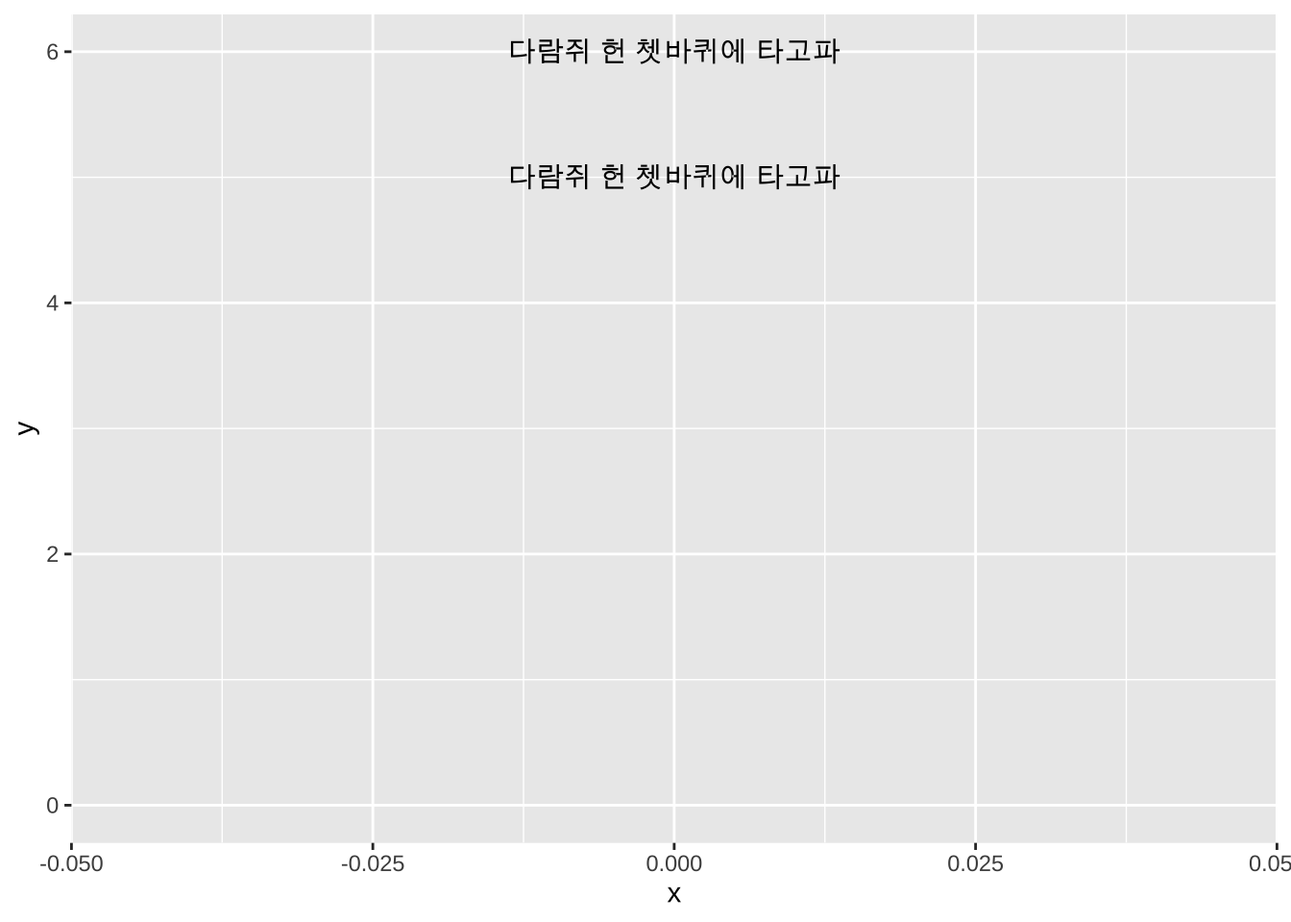
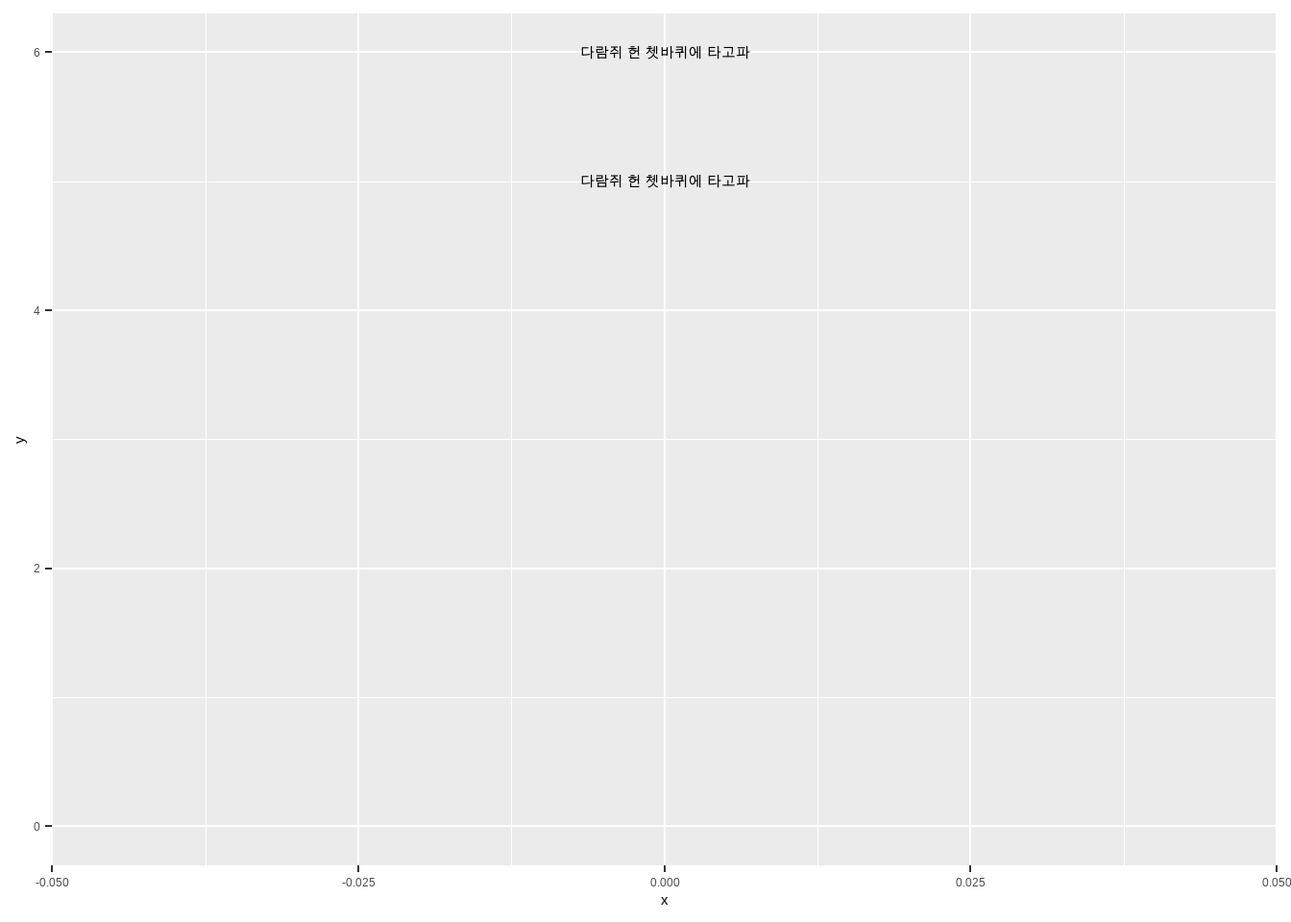
added noto fonts

diff --git a/pdf-noto.html b/pdf-noto.html
@@ -10,7 +10,7 @@
 
 
 
-<meta name="date" content="2021-02-26" />
+<meta name="date" content="2021-02-27" />
 
 <title>PDF를 데이터로 보는 올바른 자세</title>
 
@@ -42,7 +42,6 @@
 pre > code.sourceCode { white-space: pre; position: relative; }
 pre > code.sourceCode > span { display: inline-block; line-height: 1.25; }
 pre > code.sourceCode > span:empty { height: 1.2em; }
-.sourceCode { overflow: visible; }
 code.sourceCode > span { color: inherit; text-decoration: inherit; }
 div.sourceCode { margin: 1em 0; }
 pre.sourceCode { margin: 0; }
@@ -386,91 +385,163 @@ div.tocify {
 <h3 class="subtitle">구글 노토 글꼴(Noto Fonts)</h3>
 <h4 class="author">이광춘</h4>
 <address class="author_afil">
-<a href="https://www.facebook.com/groups/tidyverse/">Tidyverse Korea</a><br><h4 class="date">2021-02-26</h4>
+<a href="https://www.facebook.com/groups/tidyverse/">Tidyverse Korea</a><br><h4 class="date">2021-02-27</h4>
 
 </div>
 
 
-<div id="google-noto-fonts" class="section level1" number="1">
-<h1 number="1"><span class="header-section-number">1</span> 구글 노토 폰트</h1>
+<div id="check-installed-fonts" class="section level1" number="1">
+<h1 number="1"><span class="header-section-number">1</span> 설치된 글꼴 확인</h1>
+<p><code>sysfonts</code> 팩키지를 활용하여 폰트가 설치된 디렉토리와 파일을 확인할 수 있다. <code>font_paths()</code>를 통해 폰트가 설치된 디렉토리 확인이 가능하고, <code>font_files()</code> 함수를 통해 구체적으로 설치된 폰트를 확인한다.</p>
+<div class="sourceCode" id="cb1"><pre class="sourceCode r"><code class="sourceCode r"><span id="cb1-1"><a href="#cb1-1" aria-hidden="true"></a><span class="kw">library</span>(tidyverse)</span>
+<span id="cb1-2"><a href="#cb1-2" aria-hidden="true"></a></span>
+<span id="cb1-3"><a href="#cb1-3" aria-hidden="true"></a>sysfonts<span class="op">::</span><span class="kw">font_paths</span>()</span></code></pre></div>
+<pre><code>[1] &quot;C:\\Windows\\Fonts&quot;</code></pre>
+<div class="sourceCode" id="cb3"><pre class="sourceCode r"><code class="sourceCode r"><span id="cb3-1"><a href="#cb3-1" aria-hidden="true"></a>sysfonts<span class="op">::</span><span class="kw">font_files</span>() <span class="op">%&gt;%</span><span class="st"> </span></span>
+<span id="cb3-2"><a href="#cb3-2" aria-hidden="true"></a><span class="st">  </span><span class="kw">as_tibble</span>() <span class="op">%&gt;%</span><span class="st"> </span></span>
+<span id="cb3-3"><a href="#cb3-3" aria-hidden="true"></a><span class="st">  </span><span class="kw">filter</span>(<span class="kw">str_detect</span>(family, <span class="dt">pattern =</span> <span class="st">&quot;Nanum&quot;</span>)) <span class="op">%&gt;%</span><span class="st"> </span></span>
+<span id="cb3-4"><a href="#cb3-4" aria-hidden="true"></a><span class="st">  </span><span class="kw">select</span>(<span class="op">-</span>version, <span class="op">-</span>ps_name)</span></code></pre></div>
+<pre><code># A tibble: 25 x 4
+   path            file                        family                  face     
+   &lt;chr&gt;           &lt;chr&gt;                       &lt;chr&gt;                   &lt;chr&gt;    
+ 1 C:/Windows/Fon~ NanumBarunGothic.ttf        NanumBarunGothic        Regular  
+ 2 C:/Windows/Fon~ NanumBarunGothicBold.ttf    NanumBarunGothic        Bold     
+ 3 C:/Windows/Fon~ NanumBarunGothicLight.ttf   NanumBarunGothic Light  Light    
+ 4 C:/Windows/Fon~ NanumBarunGothicUltraLight~ NanumBarunGothic Ultra~ UltraLig~
+ 5 C:/Windows/Fon~ NanumBarunpenB.ttf          NanumBarunpen Bold      Bold     
+ 6 C:/Windows/Fon~ NanumBarunpenR.ttf          NanumBarunpen           Regular  
+ 7 C:/Windows/Fon~ NanumBrush.ttf              Nanum Brush Script      Regular  
+ 8 C:/Windows/Fon~ NanumGothic.ttf             NanumGothic             Regular  
+ 9 C:/Windows/Fon~ NanumGothicBold.ttf         NanumGothic             Bold     
+10 C:/Windows/Fon~ NanumGothicCoding-Bold.ttf  NanumGothicCoding       Bold     
+# ... with 15 more rows</code></pre>
+<div id="installed-fonts-helloworld" class="section level2" number="1.1">
+<h2 number="1.1"><span class="header-section-number">1.1</span> 폰트 추가</h2>
+<p><code>showtext</code> 팩키지 <code>font_add()</code> 함수를 통해 서체를 추가하고 <code>font_families()</code> 함수를 통해 확인한다.</p>
+<div class="sourceCode" id="cb5"><pre class="sourceCode r"><code class="sourceCode r"><span id="cb5-1"><a href="#cb5-1" aria-hidden="true"></a><span class="kw">library</span>(showtext)</span>
+<span id="cb5-2"><a href="#cb5-2" aria-hidden="true"></a></span>
+<span id="cb5-3"><a href="#cb5-3" aria-hidden="true"></a><span class="kw">font_add</span>(<span class="dt">family  =</span> <span class="st">&quot;NanumBarunpen&quot;</span>,</span>
+<span id="cb5-4"><a href="#cb5-4" aria-hidden="true"></a>         <span class="dt">bold    =</span> <span class="st">&quot;NanumBarunpenB.ttf&quot;</span>,</span>
+<span id="cb5-5"><a href="#cb5-5" aria-hidden="true"></a>         <span class="dt">regular =</span> <span class="st">&quot;NanumBarunpenR.ttf&quot;</span>)</span>
+<span id="cb5-6"><a href="#cb5-6" aria-hidden="true"></a></span>
+<span id="cb5-7"><a href="#cb5-7" aria-hidden="true"></a><span class="kw">font_families</span>()</span></code></pre></div>
+<pre><code>[1] &quot;sans&quot;          &quot;serif&quot;         &quot;mono&quot;          &quot;wqy-microhei&quot; 
+[5] &quot;NanumBarunpen&quot;</code></pre>
+<div class="sourceCode" id="cb7"><pre class="sourceCode r"><code class="sourceCode r"><span id="cb7-1"><a href="#cb7-1" aria-hidden="true"></a><span class="kw">showtext_auto</span>() </span></code></pre></div>
+<p>R 환경에서 나눔바른펜 폰트를 사용할 준비가 되었기 때문에 다음과 같이 <code>ggplot</code>에서 사용할 준비를 한다. <code>faimly = NanumBarunpen</code>으로 지정하고 <code>fontface =</code>를 달리하여 시각화를 한다.</p>
+<div class="sourceCode" id="cb8"><pre class="sourceCode r"><code class="sourceCode r"><span id="cb8-1"><a href="#cb8-1" aria-hidden="true"></a><span class="co"># library(extrafont) </span></span>
+<span id="cb8-2"><a href="#cb8-2" aria-hidden="true"></a><span class="co"># loadfonts(device = &quot;win&quot;)</span></span>
+<span id="cb8-3"><a href="#cb8-3" aria-hidden="true"></a></span>
+<span id="cb8-4"><a href="#cb8-4" aria-hidden="true"></a>korean_text &lt;-<span class="st"> &quot;다람쥐 헌 쳇바퀴에 타고파&quot;</span></span>
+<span id="cb8-5"><a href="#cb8-5" aria-hidden="true"></a></span>
+<span id="cb8-6"><a href="#cb8-6" aria-hidden="true"></a><span class="kw">ggplot</span>(<span class="dt">data =</span> <span class="ot">NULL</span>) <span class="op">+</span></span>
+<span id="cb8-7"><a href="#cb8-7" aria-hidden="true"></a><span class="st">  </span><span class="kw">geom_text</span>(</span>
+<span id="cb8-8"><a href="#cb8-8" aria-hidden="true"></a>    <span class="kw">aes</span>(<span class="dt">x =</span> <span class="dv">0</span>, <span class="dt">y =</span> <span class="dv">1</span>, <span class="dt">label =</span> korean_text), </span>
+<span id="cb8-9"><a href="#cb8-9" aria-hidden="true"></a>    <span class="dt">family =</span> <span class="st">&quot;NanumBarunpen&quot;</span>, <span class="dt">size =</span> <span class="dv">7</span>) <span class="op">+</span><span class="st"> </span></span>
+<span id="cb8-10"><a href="#cb8-10" aria-hidden="true"></a><span class="st">  </span><span class="kw">geom_text</span>(</span>
+<span id="cb8-11"><a href="#cb8-11" aria-hidden="true"></a>    <span class="kw">aes</span>(<span class="dt">x =</span> <span class="dv">0</span>, <span class="dt">y =</span> <span class="dv">2</span>, <span class="dt">label =</span> korean_text), </span>
+<span id="cb8-12"><a href="#cb8-12" aria-hidden="true"></a>    <span class="dt">family =</span> <span class="st">&quot;NanumBarunpen&quot;</span>, <span class="dt">fontface =</span> <span class="st">&quot;bold&quot;</span>, <span class="dt">size =</span> <span class="dv">9</span>) <span class="op">+</span><span class="st"> </span></span>
+<span id="cb8-13"><a href="#cb8-13" aria-hidden="true"></a><span class="st">  </span><span class="kw">expand_limits</span>(<span class="dt">y =</span> <span class="kw">c</span>(<span class="dv">0</span>, <span class="dv">3</span>)) <span class="op">+</span></span>
+<span id="cb8-14"><a href="#cb8-14" aria-hidden="true"></a><span class="st">  </span><span class="kw">theme_void</span>()</span></code></pre></div>
+<p><img src="pdf-noto_files/figure-html/font-showtext-1.png" width="672" style="display: block; margin: auto;" /></p>
 </div>
-<div id="google-noto-fonts-install" class="section level1" number="2">
-<h1 number="2"><span class="header-section-number">2</span> OS에 폰트 설치 [^install-fonts]</h1>
-<p>[]: <a href="https://www.junian.net/tech/macos-google-fonts/">Junian (Apr 2, 2020), “How to Install All Google Fonts on macOS - A simple guide to install the entire Google Fonts library on macOS,” Junian.net</a></p>
+</div>
+<div id="google-noto-fonts" class="section level1" number="2">
+<h1 number="2"><span class="header-section-number">2</span> 구글 노토 폰트</h1>
+</div>
+<div id="google-noto-fonts-install" class="section level1" number="3">
+<h1 number="3"><span class="header-section-number">3</span> OS에 폰트 설치<a href="#fn1" class="footnote-ref" id="fnref1"><sup>1</sup></a></h1>
 <p>Noto 폰트는 구글이 <code>tofu</code> 문제를 해결하고자 제시한 무료오픈 글꼴이다. 대표적으로 노토 산스와 노토 세리프 한글 글꼴을 제공하고 있어 이를 설치하여 활용하는 방법을 찾아보자.</p>
 <ul>
 <li><a href="https://fonts.google.com/specimen/Noto+Sans+KR">Noto Sans KR</a></li>
 <li><a href="https://fonts.google.com/specimen/Noto+Serif+KR">Noto Serif KR</a></li>
 </ul>
-<div class="sourceCode" id="cb1"><pre class="sourceCode r"><code class="sourceCode r"><span id="cb1-1"><a href="#cb1-1" aria-hidden="true" tabindex="-1"></a><span class="fu">library</span>(tidyverse)</span></code></pre></div>
 <p>먼저 <a href="https://fonts.google.com/">Google Fonts</a> 웹사이트에서 폰트를 다운로드 받아 로컬 컴퓨터 운영체제에 설치한다. GitHub <a href="https://github.com/google/fonts">Google Fonts</a> 저장소를 통채로 콜론하여 사용자 맥 폰트 디렉토리 <code>~/Library/Fonts/</code>에 저장한다. 전체 크기가 1.6 GB 이상되기 때문에 용량을 다소 차지한다. 업데이트된 폰트는 <code>git pull</code> 명령어를 통해 갱신한다.</p>
-<div class="sourceCode" id="cb2"><pre class="sourceCode bash"><code class="sourceCode bash"><span id="cb2-1"><a href="#cb2-1" aria-hidden="true" tabindex="-1"></a><span class="co"># 모든 구글 폰트 설치</span></span>
-<span id="cb2-2"><a href="#cb2-2" aria-hidden="true" tabindex="-1"></a><span class="bu">cd</span> ~/Library/Fonts/</span>
-<span id="cb2-3"><a href="#cb2-3" aria-hidden="true" tabindex="-1"></a><span class="fu">git</span> clone https://github.com/google/fonts.git google-fonts</span>
-<span id="cb2-4"><a href="#cb2-4" aria-hidden="true" tabindex="-1"></a></span>
-<span id="cb2-5"><a href="#cb2-5" aria-hidden="true" tabindex="-1"></a><span class="co"># 구글 폰트 업데이트</span></span>
-<span id="cb2-6"><a href="#cb2-6" aria-hidden="true" tabindex="-1"></a><span class="bu">cd</span> ~/Library/Fonts/google-fonts/</span>
-<span id="cb2-7"><a href="#cb2-7" aria-hidden="true" tabindex="-1"></a><span class="fu">git</span> pull</span>
-<span id="cb2-8"><a href="#cb2-8" aria-hidden="true" tabindex="-1"></a></span>
-<span id="cb2-9"><a href="#cb2-9" aria-hidden="true" tabindex="-1"></a><span class="co"># 삭제</span></span>
-<span id="cb2-10"><a href="#cb2-10" aria-hidden="true" tabindex="-1"></a><span class="fu">rm</span> <span class="at">-rf</span> ~/Library/Fonts/google-fonts/</span></code></pre></div>
-<p>맥에서 “Font Book 앱,” “서체 관리자 앱”을 실행시켜 노토 폰트가 설치된 것을 확인한다.</p>
+<div class="sourceCode" id="cb9"><pre class="sourceCode bash"><code class="sourceCode bash"><span id="cb9-1"><a href="#cb9-1" aria-hidden="true"></a><span class="co"># 모든 구글 폰트 설치</span></span>
+<span id="cb9-2"><a href="#cb9-2" aria-hidden="true"></a><span class="bu">cd</span> ~/Library/Fonts/</span>
+<span id="cb9-3"><a href="#cb9-3" aria-hidden="true"></a><span class="fu">git</span> clone https://github.com/google/fonts.git google-fonts</span>
+<span id="cb9-4"><a href="#cb9-4" aria-hidden="true"></a></span>
+<span id="cb9-5"><a href="#cb9-5" aria-hidden="true"></a><span class="co"># 구글 폰트 업데이트</span></span>
+<span id="cb9-6"><a href="#cb9-6" aria-hidden="true"></a><span class="bu">cd</span> ~/Library/Fonts/google-fonts/</span>
+<span id="cb9-7"><a href="#cb9-7" aria-hidden="true"></a><span class="fu">git</span> pull</span>
+<span id="cb9-8"><a href="#cb9-8" aria-hidden="true"></a></span>
+<span id="cb9-9"><a href="#cb9-9" aria-hidden="true"></a><span class="co"># 삭제</span></span>
+<span id="cb9-10"><a href="#cb9-10" aria-hidden="true"></a><span class="fu">rm</span> -rf ~/Library/Fonts/google-fonts/</span></code></pre></div>
+<p>맥에서 “Font Book 앱”, “서체 관리자 앱”을 실행시켜 노토 폰트가 설치된 것을 확인한다.</p>
 <p><img src="fig/mac-font-book.png" /></p>
+<div id="windows-noto-fonts" class="section level2" number="3.1">
+<h2 number="3.1"><span class="header-section-number">3.1</span> 윈도우</h2>
+<p>윈도우에 노토 폰트를 설치하는 방법은 다운로드 받은 파일을 복사하여 <code>c:\Windows\Fonts</code> 디렉토리에 관리자 권한으로 복사해 넣는 것이다.</p>
 </div>
-<div id="install-fonts" class="section level1" number="3">
-<h1 number="3"><span class="header-section-number">3</span> R에 폰트 설치<a href="#fn1" class="footnote-ref" id="fnref1"><sup>1</sup></a></h1>
+</div>
+<div id="install-fonts" class="section level1" number="4">
+<h1 number="4"><span class="header-section-number">4</span> R에 폰트 설치<a href="#fn2" class="footnote-ref" id="fnref2"><sup>2</sup></a></h1>
 <p>R에서 운영체제에 설치된 폰트를 설치하는 방법은 다음 세가지 팩키지가 있다.</p>
 <ul>
 <li><code>extrafont</code>: Winston Cheng이 개발했으며 TTF(.ttf) 포맷을 지원하는데 중점을 둠.</li>
 <li><code>showtext</code>: TTF 외에도 OTF 등 다양한 폰트 포맷을 지원을 확대함.</li>
-<li><code>systemfonts</code></li>
+<li><code>systemfonts</code>: <code>tidyglyphs</code> 생태계 구축 중<a href="#fn3" class="footnote-ref" id="fnref3"><sup>3</sup></a></li>
 </ul>
-<div id="install-extrafonts" class="section level2" number="3.1">
-<h2 number="3.1"><span class="header-section-number">3.1</span> <code>extrafont</code> 팩키지</h2>
-<p><code>extrafont</code> 폰트 팩키지 <code>font_import()</code> 함수를 사용해서 운영체제에 있는 글꼴을 R에서 사용할 수 있도록 설치할 수 있다.</p>
-<div class="sourceCode" id="cb3"><pre class="sourceCode r"><code class="sourceCode r"><span id="cb3-1"><a href="#cb3-1" aria-hidden="true" tabindex="-1"></a><span class="fu">library</span>(extrafont)</span>
-<span id="cb3-2"><a href="#cb3-2" aria-hidden="true" tabindex="-1"></a><span class="co"># font_import(pattern=&quot;Noto Sans CJK KR Regular&quot;, prompt = FALSE)</span></span>
-<span id="cb3-3"><a href="#cb3-3" aria-hidden="true" tabindex="-1"></a><span class="co"># font_import(paths = &quot;~/Library/Fonts/NotoSansCJKkr-Regular.otf&quot;, prompt = FALSE)</span></span>
-<span id="cb3-4"><a href="#cb3-4" aria-hidden="true" tabindex="-1"></a><span class="co"># font_import(path = &quot;~/Library/Fonts&quot;, pattern = &quot;.otf&quot;, prompt = FALSE)</span></span></code></pre></div>
+<div id="install-extrafonts" class="section level2" number="4.1">
+<h2 number="4.1"><span class="header-section-number">4.1</span> <code>extrafont</code> 팩키지</h2>
+<p><code>extrafont</code> 폰트 팩키지 <code>font_import()</code> 함수를 사용해서 운영체제에 있는 글꼴을 R에서 사용할 수 있도록 설치할 수 있다. <code>extrafont</code> 팩키지는 Winston Cheng에 의해 개발되어 <code>TTF</code>를 지원하기 위해 사용된 것이라 <code>.otf</code>를 받지 않는다. 따라서 <code>.otf</code> → <code>.ttf</code>로 변환시킨 후에 <code>font_import()</code> 함수로 설치해야 된다.</p>
+<div class="sourceCode" id="cb10"><pre class="sourceCode r"><code class="sourceCode r"><span id="cb10-1"><a href="#cb10-1" aria-hidden="true"></a><span class="kw">library</span>(extrafont)</span>
+<span id="cb10-2"><a href="#cb10-2" aria-hidden="true"></a><span class="co"># font_import(pattern=&quot;Noto Sans CJK KR Regular&quot;, prompt = FALSE)</span></span>
+<span id="cb10-3"><a href="#cb10-3" aria-hidden="true"></a><span class="co"># font_import(paths = &quot;~/Library/Fonts/NotoSansCJKkr-Regular.otf&quot;, prompt = FALSE)</span></span>
+<span id="cb10-4"><a href="#cb10-4" aria-hidden="true"></a><span class="co"># font_import(path = &quot;~/Library/Fonts&quot;, pattern = &quot;.otf&quot;, prompt = FALSE)</span></span>
+<span id="cb10-5"><a href="#cb10-5" aria-hidden="true"></a></span>
+<span id="cb10-6"><a href="#cb10-6" aria-hidden="true"></a><span class="co"># font_import(paths = &quot;Noto Sans CJK KR&quot;, prompt = FALSE)</span></span>
+<span id="cb10-7"><a href="#cb10-7" aria-hidden="true"></a><span class="co"># font_import(paths = &quot;Noto Sans Mono CJK KR&quot;, prompt = FALSE)</span></span></code></pre></div>
 </div>
-<div id="showtext-install" class="section level2" number="3.2">
-<h2 number="3.2"><span class="header-section-number">3.2</span> <code>showtext</code></h2>
-<div class="sourceCode" id="cb4"><pre class="sourceCode r"><code class="sourceCode r"><span id="cb4-1"><a href="#cb4-1" aria-hidden="true" tabindex="-1"></a><span class="fu">library</span>(tidyverse)</span>
-<span id="cb4-2"><a href="#cb4-2" aria-hidden="true" tabindex="-1"></a><span class="fu">library</span>(showtext)</span>
-<span id="cb4-3"><a href="#cb4-3" aria-hidden="true" tabindex="-1"></a></span>
-<span id="cb4-4"><a href="#cb4-4" aria-hidden="true" tabindex="-1"></a><span class="co"># font_add_google(&quot;Noto Sans KR&quot;, family = &quot;Noto Sans CJK KR&quot;)</span></span>
-<span id="cb4-5"><a href="#cb4-5" aria-hidden="true" tabindex="-1"></a>sysfonts<span class="sc">::</span><span class="fu">font_add</span>(<span class="at">family =</span> <span class="st">&quot;Noto Sans CJK&quot;</span>, </span>
-<span id="cb4-6"><a href="#cb4-6" aria-hidden="true" tabindex="-1"></a>         <span class="at">regular =</span> <span class="st">&quot;NotoSansCJKkr-Regular.otf&quot;</span>)</span>
-<span id="cb4-7"><a href="#cb4-7" aria-hidden="true" tabindex="-1"></a><span class="fu">showtext_auto</span>(<span class="at">enable =</span> <span class="cn">TRUE</span>)</span>
-<span id="cb4-8"><a href="#cb4-8" aria-hidden="true" tabindex="-1"></a></span>
-<span id="cb4-9"><a href="#cb4-9" aria-hidden="true" tabindex="-1"></a>tmp_str <span class="ot">&lt;-</span> sysfonts<span class="sc">::</span><span class="fu">font_paths</span>()</span>
-<span id="cb4-10"><a href="#cb4-10" aria-hidden="true" tabindex="-1"></a></span>
-<span id="cb4-11"><a href="#cb4-11" aria-hidden="true" tabindex="-1"></a>tmp_str[<span class="fu">str_detect</span>(tmp_str, <span class="at">pattern =</span> <span class="st">&quot;nanum&quot;</span>)]</span></code></pre></div>
-<pre><code>[1] &quot;/Users/kwangchunlee/Library/Fonts/google-fonts/ofl/nanumbrushscript&quot; 
-[2] &quot;/Users/kwangchunlee/Library/Fonts/google-fonts/ofl/nanumgothic&quot;      
-[3] &quot;/Users/kwangchunlee/Library/Fonts/google-fonts/ofl/nanumgothiccoding&quot;
-[4] &quot;/Users/kwangchunlee/Library/Fonts/google-fonts/ofl/nanummyeongjo&quot;    
-[5] &quot;/Users/kwangchunlee/Library/Fonts/google-fonts/ofl/nanumpenscript&quot;   </code></pre>
-<div class="sourceCode" id="cb6"><pre class="sourceCode r"><code class="sourceCode r"><span id="cb6-1"><a href="#cb6-1" aria-hidden="true" tabindex="-1"></a>korean_text <span class="ot">&lt;-</span> <span class="st">&quot;다람쥐 헌 쳇바퀴에 타고파&quot;</span></span>
-<span id="cb6-2"><a href="#cb6-2" aria-hidden="true" tabindex="-1"></a></span>
-<span id="cb6-3"><a href="#cb6-3" aria-hidden="true" tabindex="-1"></a><span class="fu">showtext_begin</span>()</span>
-<span id="cb6-4"><a href="#cb6-4" aria-hidden="true" tabindex="-1"></a></span>
-<span id="cb6-5"><a href="#cb6-5" aria-hidden="true" tabindex="-1"></a><span class="fu">ggplot</span>() <span class="sc">+</span> </span>
-<span id="cb6-6"><a href="#cb6-6" aria-hidden="true" tabindex="-1"></a>  <span class="fu">geom_text</span>(</span>
-<span id="cb6-7"><a href="#cb6-7" aria-hidden="true" tabindex="-1"></a>    <span class="fu">aes</span>(<span class="at">x =</span> <span class="dv">0</span>, <span class="at">y =</span> <span class="dv">5</span>, <span class="at">label =</span> korean_text), </span>
-<span id="cb6-8"><a href="#cb6-8" aria-hidden="true" tabindex="-1"></a>    <span class="at">family =</span> <span class="st">&quot;Noto Sans KR&quot;</span>) <span class="sc">+</span> </span>
-<span id="cb6-9"><a href="#cb6-9" aria-hidden="true" tabindex="-1"></a>  <span class="fu">geom_text</span>(</span>
-<span id="cb6-10"><a href="#cb6-10" aria-hidden="true" tabindex="-1"></a>    <span class="fu">aes</span>(<span class="at">x =</span> <span class="dv">0</span>, <span class="at">y =</span> <span class="dv">6</span>, <span class="at">label =</span> korean_text), </span>
-<span id="cb6-11"><a href="#cb6-11" aria-hidden="true" tabindex="-1"></a>    <span class="at">family =</span> <span class="st">&quot;NanumGothic&quot;</span>) <span class="sc">+</span> </span>
-<span id="cb6-12"><a href="#cb6-12" aria-hidden="true" tabindex="-1"></a>  <span class="fu">expand_limits</span>(<span class="at">y =</span> <span class="fu">c</span>(<span class="dv">0</span>, <span class="dv">5</span>)) </span></code></pre></div>
-<p><img src="pdf-noto_files/figure-html/korean-showtext-1.png" width="672" style="display: block; margin: auto;" /></p>
-<div class="sourceCode" id="cb7"><pre class="sourceCode r"><code class="sourceCode r"><span id="cb7-1"><a href="#cb7-1" aria-hidden="true" tabindex="-1"></a><span class="fu">showtext_begin</span>()</span></code></pre></div>
+<div id="showtext-install" class="section level2" number="4.2">
+<h2 number="4.2"><span class="header-section-number">4.2</span> <code>showtext</code></h2>
+<div class="sourceCode" id="cb11"><pre class="sourceCode r"><code class="sourceCode r"><span id="cb11-1"><a href="#cb11-1" aria-hidden="true"></a><span class="kw">library</span>(tidyverse)</span>
+<span id="cb11-2"><a href="#cb11-2" aria-hidden="true"></a><span class="kw">library</span>(showtext)</span>
+<span id="cb11-3"><a href="#cb11-3" aria-hidden="true"></a></span>
+<span id="cb11-4"><a href="#cb11-4" aria-hidden="true"></a><span class="co"># font_add_google(&quot;Noto Sans KR&quot;, family = &quot;Noto Sans CJK KR&quot;)</span></span>
+<span id="cb11-5"><a href="#cb11-5" aria-hidden="true"></a>sysfonts<span class="op">::</span><span class="kw">font_add</span>(<span class="dt">family  =</span> <span class="st">&quot;Noto Sans CJK KR&quot;</span>, </span>
+<span id="cb11-6"><a href="#cb11-6" aria-hidden="true"></a>                   <span class="dt">regular =</span> <span class="st">&quot;NotoSansKR-Regular.otf&quot;</span>,</span>
+<span id="cb11-7"><a href="#cb11-7" aria-hidden="true"></a>                   <span class="dt">bold    =</span> <span class="st">&quot;NotoSansKR-Bold.otf&quot;</span>)</span>
+<span id="cb11-8"><a href="#cb11-8" aria-hidden="true"></a></span>
+<span id="cb11-9"><a href="#cb11-9" aria-hidden="true"></a><span class="kw">ggplot</span>(<span class="dt">data =</span> <span class="ot">NULL</span>) <span class="op">+</span></span>
+<span id="cb11-10"><a href="#cb11-10" aria-hidden="true"></a><span class="st">  </span><span class="kw">geom_text</span>(</span>
+<span id="cb11-11"><a href="#cb11-11" aria-hidden="true"></a>    <span class="kw">aes</span>(<span class="dt">x =</span> <span class="dv">0</span>, <span class="dt">y =</span> <span class="dv">1</span>, <span class="dt">label =</span> korean_text), </span>
+<span id="cb11-12"><a href="#cb11-12" aria-hidden="true"></a>    <span class="dt">family =</span> <span class="st">&quot;NanumBarunpen&quot;</span>, <span class="dt">size =</span> <span class="dv">5</span>) <span class="op">+</span><span class="st"> </span></span>
+<span id="cb11-13"><a href="#cb11-13" aria-hidden="true"></a><span class="st">  </span><span class="kw">geom_text</span>(</span>
+<span id="cb11-14"><a href="#cb11-14" aria-hidden="true"></a>    <span class="kw">aes</span>(<span class="dt">x =</span> <span class="dv">0</span>, <span class="dt">y =</span> <span class="dv">2</span>, <span class="dt">label =</span> korean_text), </span>
+<span id="cb11-15"><a href="#cb11-15" aria-hidden="true"></a>    <span class="dt">family =</span> <span class="st">&quot;NanumBarunpen&quot;</span>, <span class="dt">fontface =</span> <span class="st">&quot;bold&quot;</span>, <span class="dt">size =</span> <span class="dv">6</span>) <span class="op">+</span><span class="st"> </span></span>
+<span id="cb11-16"><a href="#cb11-16" aria-hidden="true"></a><span class="st">  </span><span class="kw">geom_text</span>(</span>
+<span id="cb11-17"><a href="#cb11-17" aria-hidden="true"></a>    <span class="kw">aes</span>(<span class="dt">x =</span> <span class="dv">0</span>, <span class="dt">y =</span> <span class="dv">3</span>, <span class="dt">label =</span> korean_text), </span>
+<span id="cb11-18"><a href="#cb11-18" aria-hidden="true"></a>    <span class="dt">family =</span> <span class="st">&quot;Noto Sans CJK KR&quot;</span>, <span class="dt">fontface =</span> <span class="st">&quot;plain&quot;</span>, <span class="dt">size =</span> <span class="dv">7</span>) <span class="op">+</span><span class="st"> </span></span>
+<span id="cb11-19"><a href="#cb11-19" aria-hidden="true"></a><span class="st">  </span><span class="kw">geom_text</span>(</span>
+<span id="cb11-20"><a href="#cb11-20" aria-hidden="true"></a>    <span class="kw">aes</span>(<span class="dt">x =</span> <span class="dv">0</span>, <span class="dt">y =</span> <span class="dv">4</span>, <span class="dt">label =</span> korean_text), </span>
+<span id="cb11-21"><a href="#cb11-21" aria-hidden="true"></a>    <span class="dt">family =</span> <span class="st">&quot;Noto Sans CJK KR&quot;</span>, <span class="dt">fontface =</span> <span class="st">&quot;bold&quot;</span>, <span class="dt">size =</span> <span class="dv">8</span>) <span class="op">+</span><span class="st"> </span></span>
+<span id="cb11-22"><a href="#cb11-22" aria-hidden="true"></a><span class="st">  </span><span class="kw">expand_limits</span>(<span class="dt">y =</span> <span class="kw">c</span>(<span class="dv">0</span>, <span class="dv">5</span>)) <span class="op">+</span></span>
+<span id="cb11-23"><a href="#cb11-23" aria-hidden="true"></a><span class="st">  </span><span class="kw">theme_void</span>()</span></code></pre></div>
+</div>
+<div id="showtext-install-systemfonts" class="section level2" number="4.3">
+<h2 number="4.3"><span class="header-section-number">4.3</span> <code>systemfonts</code> 팩키지</h2>
+<p><code>systemfonts</code> 팩키지 <code>register_font()</code> 함수를 사용해서 폰트를 등록할 수 있다.</p>
+<div class="sourceCode" id="cb12"><pre class="sourceCode r"><code class="sourceCode r"><span id="cb12-1"><a href="#cb12-1" aria-hidden="true"></a><span class="kw">library</span>(systemfonts)</span>
+<span id="cb12-2"><a href="#cb12-2" aria-hidden="true"></a></span>
+<span id="cb12-3"><a href="#cb12-3" aria-hidden="true"></a><span class="co"># systemfonts::register_font(&quot;Noto Sans CJK KR&quot;)</span></span>
+<span id="cb12-4"><a href="#cb12-4" aria-hidden="true"></a>systemfonts<span class="op">::</span><span class="kw">match_font</span>(<span class="st">&quot;Noto Sans CJK KR&quot;</span>)</span></code></pre></div>
+<pre><code>$path
+[1] &quot;C:\\Users\\statkclee\\AppData\\Local\\Microsoft\\Windows\\Fonts\\NotoSansCJKkr-Regular.otf&quot;
+
+$index
+[1] 0
+
+$features
+NULL</code></pre>
 </div>
 </div>
 <div class="footnotes">
 <hr />
 <ol>
-<li id="fn1"><p><a href="https://stackoverflow.com/questions/52251290/add-font-to-r-that-is-not-in-extrafonts-library">stackoverflow, “Add font to R that is not in extrafonts library”</a><a href="#fnref1" class="footnote-back">↩</a></p></li>
+<li id="fn1"><p><a href="https://www.junian.net/tech/macos-google-fonts/">Junian (Apr 2, 2020), “How to Install All Google Fonts on macOS - A simple guide to install the entire Google Fonts library on macOS”, Junian.net</a><a href="#fnref1" class="footnote-back">↩</a></p></li>
+<li id="fn2"><p><a href="https://stackoverflow.com/questions/52251290/add-font-to-r-that-is-not-in-extrafonts-library">stackoverflow, “Add font to R that is not in extrafonts library”</a><a href="#fnref2" class="footnote-back">↩</a></p></li>
+<li id="fn3"><p><a href="https://www.tidyverse.org/blog/2021/02/modern-text-features/">Thomas Lin Pedersen (2021/02/06), “Modern Text Features in R”, Tidyverse Blog</a><a href="#fnref3" class="footnote-back">↩</a></p></li>
 </ol>
 </div>
 

diff --git a/index.html b/index.html
@@ -78,11 +78,10 @@
 <li><a href="word-table-extraction.html">워드 파일에서 표(table) 추출</a></li>
 <li><a href="pdf-typography.html">디지털 타이포그래피(Digital Typography)</a>
 <ul>
-<li><a href="pdf-fonts.html"><strong>글꼴(font)</strong></a></li>
 <li><a href="pdf-noto.html">구글 노토(Noto)</a></li>
+<li><a href="pdf-fonts.html"><strong>글꼴(font)</strong></a></li>
 </ul></li>
 </ul>
-<h3 id="xwmooc-오픈-교재"><a href="https://statkclee.github.io/xwMOOC/">xwMOOC 오픈 교재</a></h3>
         </div>
       </div>
       </article>

diff --git a/index.md b/index.md
@@ -33,8 +33,8 @@ title: "PDF를 데이터로 보는 올바른 자세"
     - [PPT 장표 - OCR `tesseract`](ingest-ocr-ppt.html)
 - [워드 파일에서 표(table) 추출](word-table-extraction.html)
 - [디지털 타이포그래피(Digital Typography)](pdf-typography.html)
-    - [**글꼴(font)**](pdf-fonts.html)
     - [구글 노토(Noto)](pdf-noto.html)
+    - [**글꼴(font)**](pdf-fonts.html)
 
-### [xwMOOC 오픈 교재](https://statkclee.github.io/xwMOOC/)
+
 
